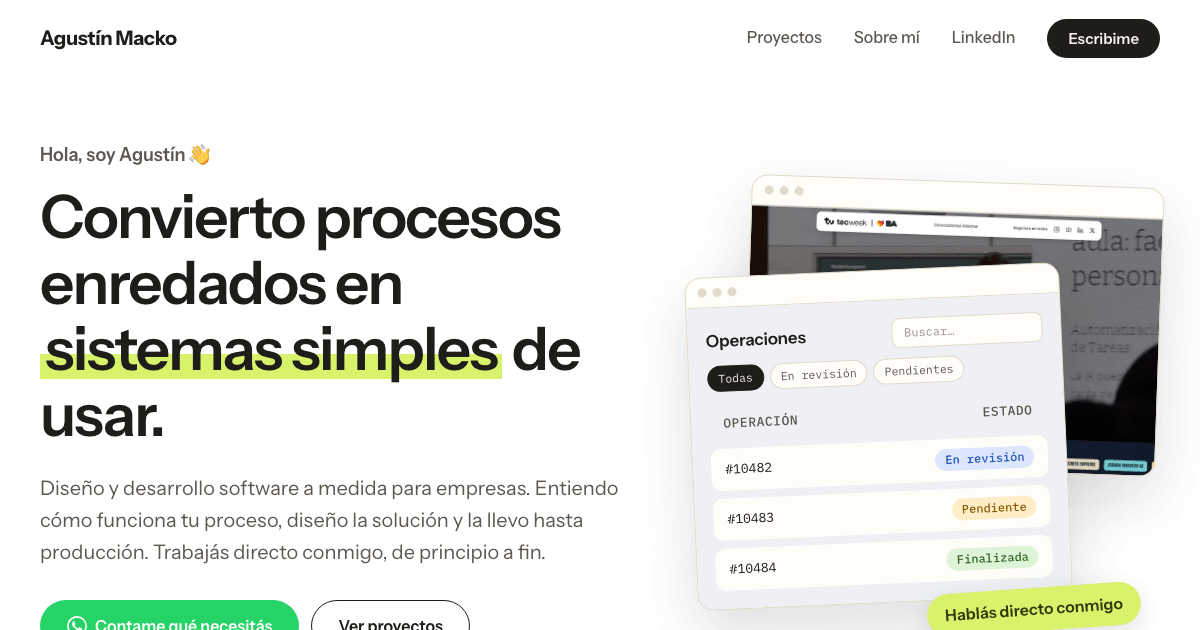
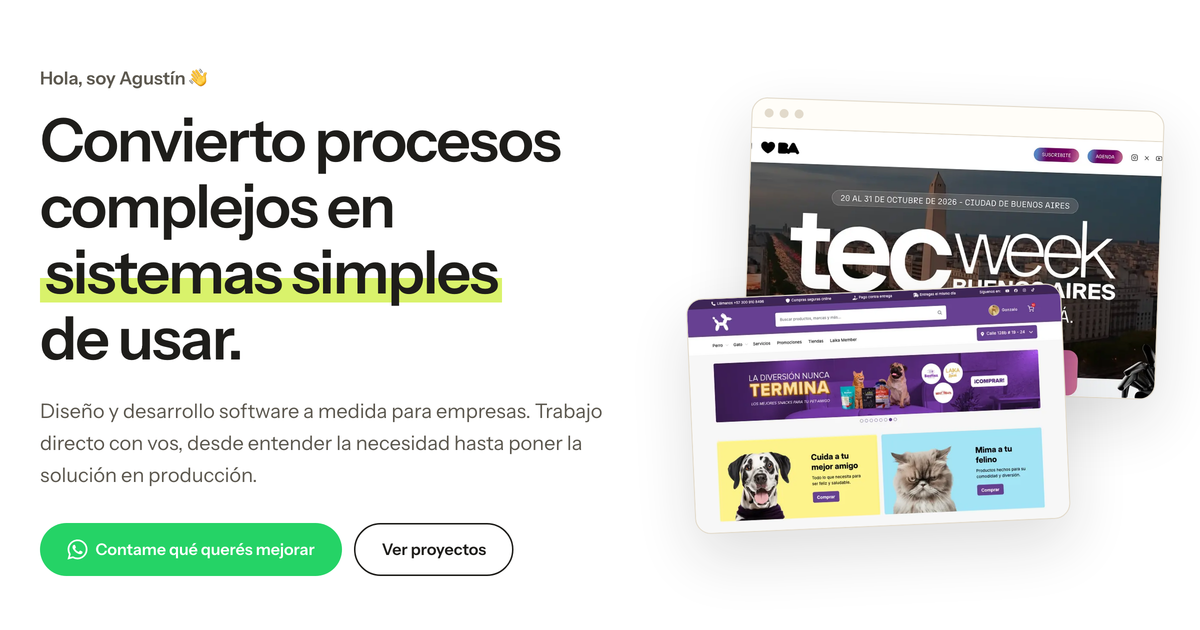
fix imagen miniatrura

diff --git a/index.html b/index.html
@@ -27,14 +27,14 @@
   <meta property="og:title" content="Agustín Macko — Software a medida para empresas">
   <meta property="og:description" content="Convierto procesos complejos en sistemas simples de usar.. Trabajás directo conmigo.">
   <meta property="og:url" content="https://agustinmacko.com.ar/">
-  <meta property="og:image" content="https://agustinmacko.com.ar/img/og.png">
+  <meta property="og:image" content="https://agustinmacko.com.ar/img/og.png?v=2">
   <meta property="og:image:width" content="1200">
   <meta property="og:image:height" content="630">
   <meta property="og:image:alt" content="Agustín Macko — CConvierto procesos complejos en sistemas simples de usar.">
   <meta name="twitter:card" content="summary_large_image">
   <meta name="twitter:title" content="Agustín Macko — Software a medida para empresas">
   <meta name="twitter:description" content="Convierto procesos complejos en sistemas simples de usar.. Trabajás directo conmigo.">
-  <meta name="twitter:image" content="https://agustinmacko.com.ar/img/og.png">
+  <meta name="twitter:image" content="https://agustinmacko.com.ar/img/og.png?v=2">
   <link rel="canonical" href="https://agustinmacko.com.ar/">
 
   <script type="application/ld+json">
